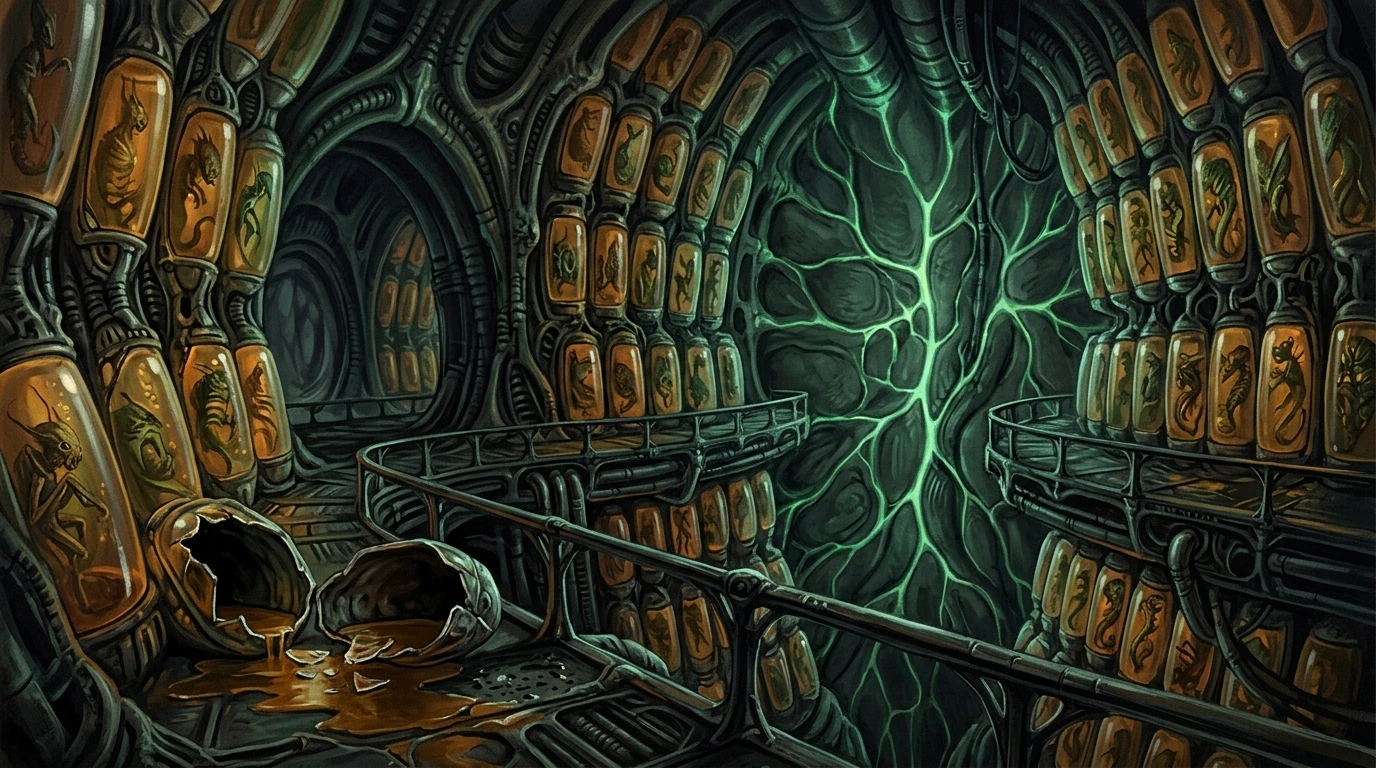
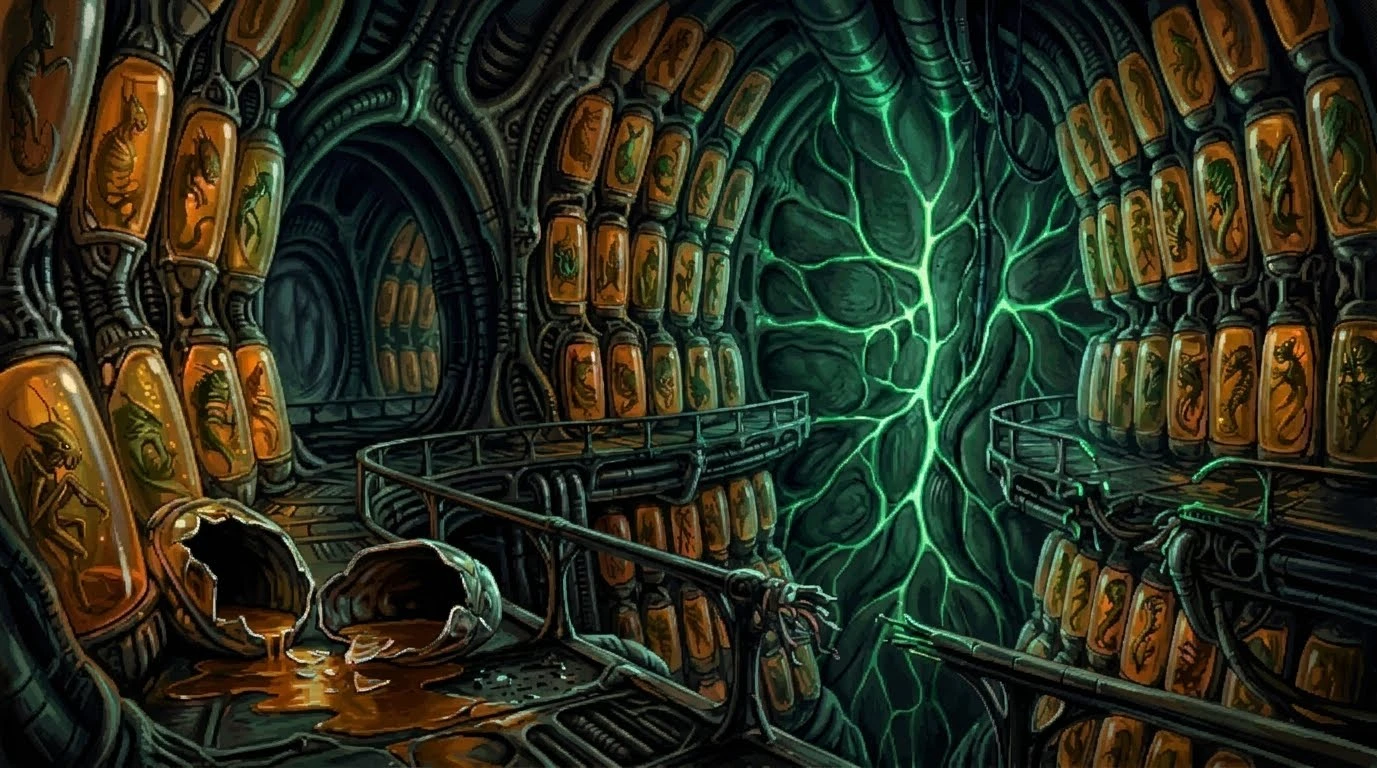
Add goblin standup intro animation, vent cover sprite, and new stasis background
- Goblin stand-up animation: 8-frame sprite plays once during fade-from-black
  intro, then transitions to idle. New `loop: false` field on SpriteSet makes
  CharacterSprite play through frames without repeating.
- Vent cover grate: floor grate sprite with transparency in the corridor,
  visually marking the ventilation shaft entrance.
- New stasis hold background: updated Sierra-style art with fence removed on
  cataloguer side for better visual composition.
- Engine: added setCharacterOverride() method for direct character state changes.
- ScenarioPlayer: manages standup→idle sprite transition during eye-open sequence.

Claude-Session: https://claude.ai/code/session_013nLT1EESxv1f88E9FZS33G

diff --git a/client/src/components/ScenarioPlayer.tsx b/client/src/components/ScenarioPlayer.tsx
@@ -199,10 +199,28 @@ export function ScenarioPlayer({ scenario, onExit }: ScenarioPlayerProps) {
 
   useEffect(() => {
     if (!showIntro && !eyeOpen) {
+      const hasStandup = !!scenario.character?.sprite_sets?.['standup'];
+      if (hasStandup) {
+        engine.setCharacterOverride({ sprite_set: 'standup' });
+        bump();
+      }
       const timer = setTimeout(() => setEyeOpen(true), 50);
       return () => clearTimeout(timer);
     }
-  }, [showIntro, eyeOpen]);
+  }, [showIntro, eyeOpen, engine, bump, scenario]);
+
+  useEffect(() => {
+    if (!eyeOpen) return;
+    const standupSet = scenario.character?.sprite_sets?.['standup'];
+    if (!standupSet) return;
+    const frameRate = standupSet.frame_rate || 3;
+    const duration = (standupSet.columns / frameRate) * 1000 + 200;
+    const timer = setTimeout(() => {
+      engine.setCharacterOverride({ sprite_set: 'idle' });
+      bump();
+    }, duration);
+    return () => clearTimeout(timer);
+  }, [eyeOpen, engine, bump, scenario]);
 
   useEffect(() => {
     const raw = scenario.setting.ambient_audio;

diff --git a/client/src/components/CharacterSprite.tsx b/client/src/components/CharacterSprite.tsx
@@ -36,21 +36,27 @@ export function CharacterSprite({
   const facing = placement.facing ?? 'down';
   const row = Math.max(0, directions.indexOf(facing));
   const cols = spriteSet.columns;
+  const shouldLoop = spriteSet.loop !== false;
 
   useEffect(() => {
     if (isStatic) return;
+    setCurrentFrame(0);
     let last = 0;
     const interval = 1000 / frameRate;
     const tick = (time: number) => {
       if (time - last >= interval) {
         last = time;
-        setCurrentFrame((f) => (f + 1) % cols);
+        setCurrentFrame((f) => {
+          const next = f + 1;
+          if (next >= cols) return shouldLoop ? 0 : cols - 1;
+          return next;
+        });
       }
       animRef.current = requestAnimationFrame(tick);
     };
     animRef.current = requestAnimationFrame(tick);
     return () => cancelAnimationFrame(animRef.current);
-  }, [isStatic, frameRate, cols]);
+  }, [isStatic, frameRate, cols, shouldLoop, placement.sprite_set]);
 
   const frame = isStatic ? (placement.frame ?? 0) : currentFrame;
   const bgX = -(frame * fw);

diff --git a/client/src/engine/ScenarioEngine.ts b/client/src/engine/ScenarioEngine.ts
@@ -126,6 +126,10 @@ export class ScenarioEngine {
     return { ...base, ...this._characterOverride };
   }
 
+  setCharacterOverride(overrides: Partial<CharacterPlacement> | null): void {
+    this._characterOverride = overrides;
+  }
+
   getObjectState(objectId: string): string {
     return this.objectStates[objectId] ?? '';
   }

diff --git a/client/src/engine/types.ts b/client/src/engine/types.ts
@@ -261,6 +261,7 @@ export interface SpriteSet {
   rows: number;
   frame_rate?: number;
   directions?: ('down' | 'left' | 'right' | 'up')[];
+  loop?: boolean;
 }
 
 export interface CharacterConfig {

diff --git a/CLAUDE.md b/CLAUDE.md
@@ -302,7 +302,8 @@ Low camera angle looking UP from knee-height — [scene-specific description of 
 - **Interactive scenario map**: Published artifact at claude.ai showing Act 1 room graph, item locations, puzzle chains, and 30-step walkthrough. Keep this updated when rooms, items, or puzzles change. Data extracted from scenario JSON.
 - **Cataloguer robot closeup**: Spider-legged drone in Stasis Hold with animated sprite (4 frames). Looking shows 3-tank specimen closeup; touching discovers section code 7319 (sets `lab_code_known`). Pod Cluster view removed — cataloguer closeup replaces it.
 - **Engine bug fixes**: `evaluateConditions()` now handles undefined/missing `when` arrays gracefully. `flag_is`/`flag_not` conditions without explicit `value` default to checking against `"true"` (previously compared against `undefined`, breaking conditions like `flag_not security_sequence_known`).
-- **Vent cover in corridor**: Ventilation shaft entrance moved from Feeding Station to Containment Corridor. A `vent_cover` object is always visible in the corridor floor (bottom-left) but gated by `security_locks_overridden` — trying to enter before overriding security shows a locked message. Navigation graph: Corridor → Vent Shaft → Airlock Bay. Vent shaft back-nav returns to corridor.
+- **Vent cover in corridor**: Ventilation shaft entrance moved from Feeding Station to Containment Corridor. A `vent_cover` object with a sprite grate graphic (`sprites/vent_cover.png`) is always visible in the corridor floor (bottom-left) but gated by `security_locks_overridden` — trying to enter before overriding security shows a locked message. Navigation graph: Corridor → Vent Shaft → Airlock Bay. Vent shaft back-nav returns to corridor.
+- **Standup intro animation**: When the game starts and the intro text is dismissed, the goblin plays an 8-frame stand-up animation (`sprites/goblin_standup.png`) during the fade-from-black transition, then transitions to the idle sprite. Implemented via `loop: false` on SpriteSet (plays once, holds last frame) and ScenarioPlayer managing the standup→idle character override. CharacterSprite resets frame counter when sprite_set changes.
 
 ---
 
